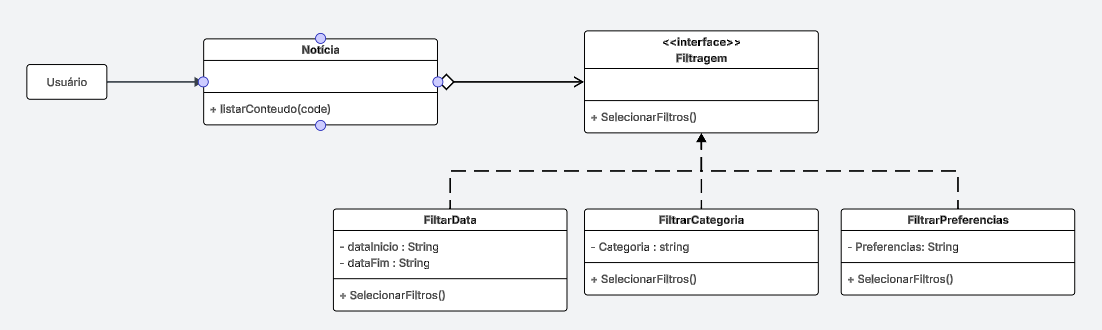
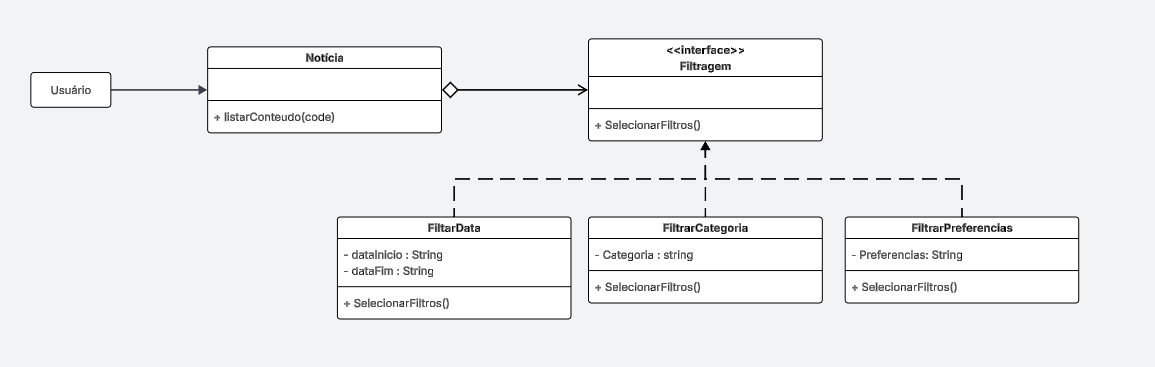
adição do código do strategy

diff --git a/docs/Code/Strategy/Strategy.py b/docs/Code/Strategy/Strategy.py
@@ -1,0 +1,43 @@
+from abc import ABC, abstractmethod
+from typing import List
+
+
+class Filtragem(ABC):
+    
+    @abstractmethod
+    def selecionar_filtros(self) -> None:
+        """Este método deve ser implementado pelas estratégias reais."""
+        pass
+
+class Noticia:
+    def __init__(self, estrategia_filtragem: Filtragem):
+
+        self.estrategia_filtragem = estrategia_filtragem
+        self.conteudo: List[str] = []
+
+    def listar_conteudo(self, code: str) -> None:
+        print(f"Listando conteúdo com o código: {code}")
+
+        self.estrategia_filtragem.selecionar_filtros()
+
+class FiltrarData(Filtragem):
+    def __init__(self, data_inicio: str, data_fim: str):
+        self.data_inicio = data_inicio
+        self.data_fim = data_fim
+
+    def selecionar_filtros(self) -> None:
+        print(f"Aplicando filtro por Data: de {self.data_inicio} até {self.data_fim}")
+
+class FiltrarCategoria(Filtragem):
+    def __init__(self, categoria: str):
+        self.categoria = categoria
+
+    def selecionar_filtros(self) -> None:
+        print(f"Aplicando filtro pela Categoria: {self.categoria}")
+
+class FiltrarPreferencias(Filtragem):
+    def __init__(self, preferencias: str):
+        self.preferencias = preferencias
+
+    def selecionar_filtros(self) -> None:
+        print(f"Aplicando filtro por Preferências: {self.preferencias}")

diff --git a/docs/Code/main.py b/docs/Code/main.py
@@ -1,6 +1,7 @@
 from Factory.Factory import CreateConteudo, CreateCardapioRU, CreateEvento, Publicador, CreateNoticia, CreateEdital
 from Proxy.Proxy import Autenticador, AutenticadorProxy, Login
 from Builder.Builder import EventoBuilder, TipoDeEvento
+from Strategy.Strategy import Noticia, FiltrarCategoria, FiltrarData
 
 if __name__ == "__main__":
     
@@ -36,6 +37,14 @@ if __name__ == "__main__":
         print("--- Conteúdos do Publicador ---")
         for conteudo in publicador.conteudos:
             print(conteudo.exibirConteudo())
+
+        print("\n--- Teste do Strategy ---")
+        estrategia_cat = FiltrarCategoria("Tecnologia")
+        noticia_tech = Noticia(estrategia_cat)
+        noticia_tech.listar_conteudo("TEC-2026")
+        estrategia_data = FiltrarData("01/05/2026", "20/05/2026")
+        noticia_tech.estrategia_filtragem = estrategia_data
+        noticia_tech.listar_conteudo("DATA-5-2026")
     else:
         print("\nAcesso negado. Não foi possível publicar os conteúdos.")
 
